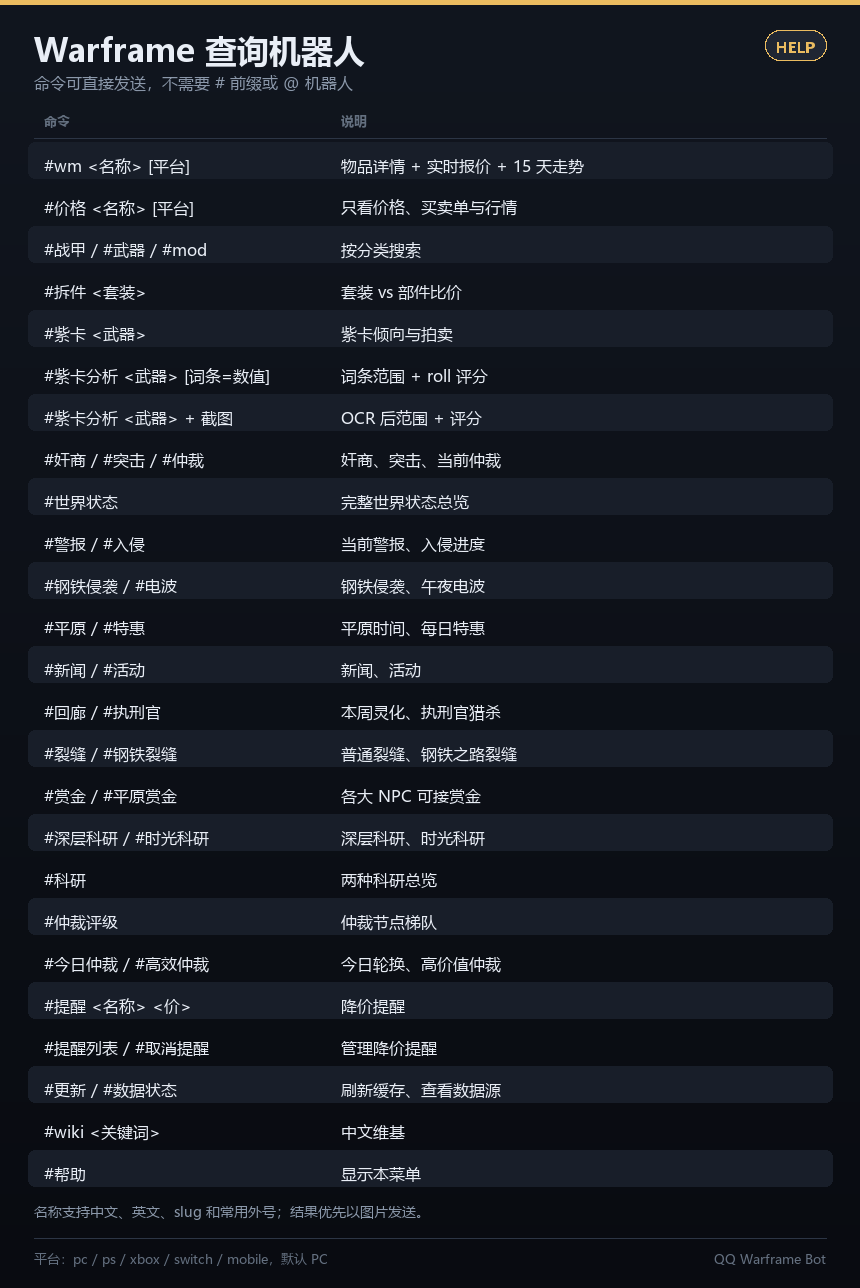
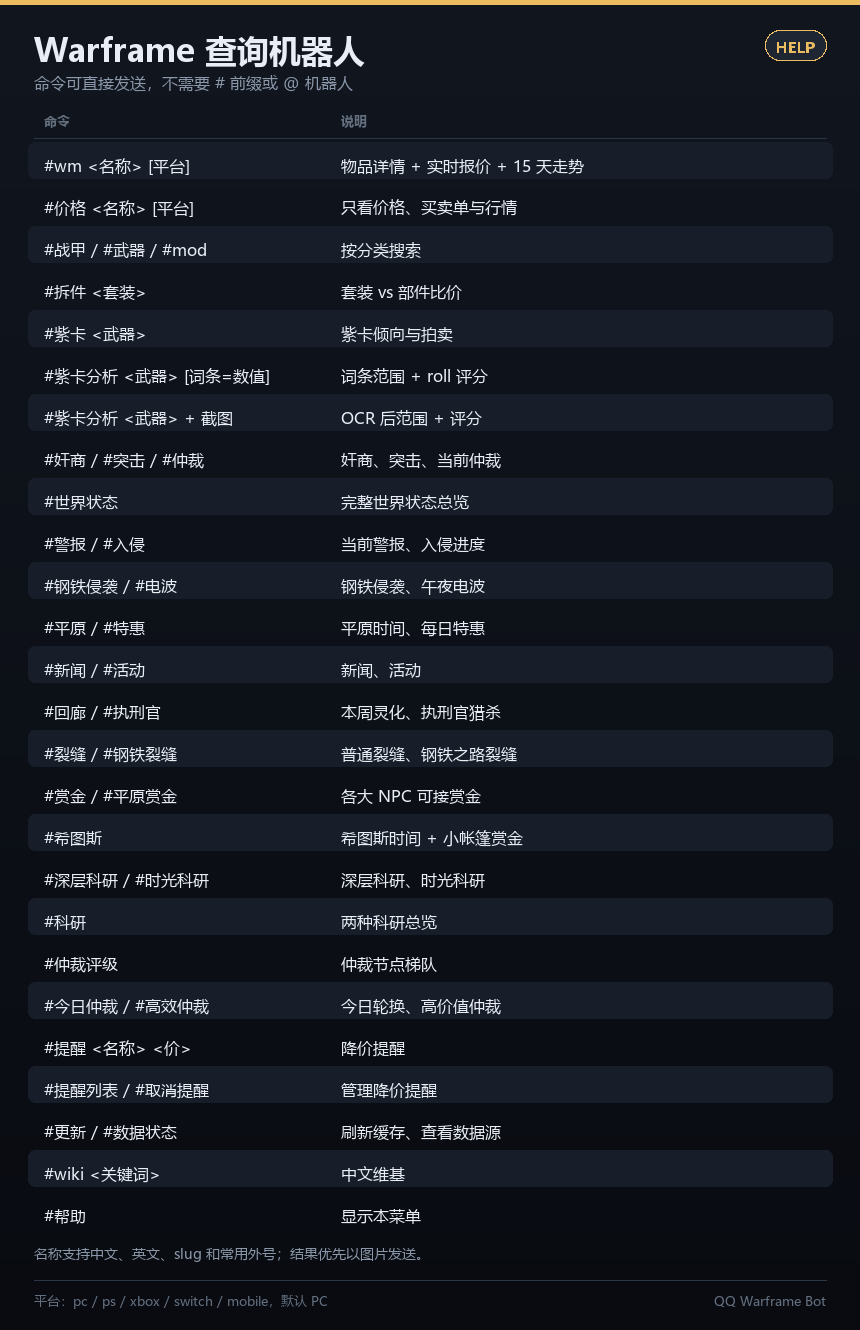
Add Cetus tent bounty view

Changed region(s): [[0.0302, 0.0311, 0.6953, 0.9938], [0.907, 0.0311, 0.9674, 0.0621], [0.8465, 0.9627, 0.907, 0.9938]]

diff --git a/bot/present.py b/bot/present.py
@@ -732,6 +732,73 @@ BOUNTY_ORDER = ["Ostrons", "Solaris United", "Entrati", "Cavia",
                 "The Hex", "The Holdfasts"]
 
 
+def _bounty_reward(job) -> str:
+    drops = _as_list(job.get("rewardPoolDrops"))
+    rewards = []
+    for drop in drops[:2]:
+        if isinstance(drop, dict) and drop.get("item"):
+            rewards.append(terms.localize_reward(str(drop["item"])))
+    if not rewards:
+        rewards = [terms.localize_reward(str(value))
+                   for value in _as_list(job.get("rewardPool"))[:2]]
+    return "、".join(rewards) or "—"
+
+
+def _bounty_level(job) -> str:
+    levels = _as_list(job.get("enemyLevels"))
+    if len(levels) >= 2:
+        return "%s–%s" % (levels[0], levels[1])
+    if levels:
+        return str(levels[0])
+    return "—"
+
+
+def cetus_reply(cycle, raw) -> Reply:
+    jobs = []
+    seen = set()
+    for syndicate in _as_list(raw):
+        if syndicate.get("syndicate") != "Ostrons":
+            continue
+        for job in _as_list(syndicate.get("jobs")):
+            title = terms.localize_bounty(
+                str(job.get("type") or job.get("jobType") or "赏金"))
+            key = (title, str(job.get("expiry") or ""))
+            if key in seen:
+                continue
+            seen.add(key)
+            jobs.append((job, title))
+    jobs.sort(key=lambda pair: (
+        (_as_list(pair[0].get("enemyLevels")) or [999])[0],
+        pair[1]))
+    if not jobs:
+        return Reply(text="希图斯当前没有可接赏金。")
+
+    rows = []
+    text_lines = []
+    for index, (job, title) in enumerate(jobs[:3], 1):
+        label = "小帐篷 %d" % index
+        rows.append([label, title, _bounty_level(job),
+                     _bounty_reward(job),
+                     countdown(parse_timestamp(job.get("expiry")))])
+        text_lines.append("%s / %s / %s" % (label, title, _bounty_level(job)))
+    for job, title in jobs[3:]:
+        rows.append(["其他赏金", title, _bounty_level(job),
+                     _bounty_reward(job),
+                     countdown(parse_timestamp(job.get("expiry")))])
+        text_lines.append("其他 / %s / %s" % (title, _bounty_level(job)))
+
+    state = _state_label((cycle or {}).get("state"))
+    time_left = terms.localize_duration(str((cycle or {}).get("timeLeft") or "—"))
+    return _world_reply(
+        "希图斯", "当前 %s · 剩余 %s ｜ 小帐篷 1–3 + 全部 Ostrons 赏金" % (
+            state, time_left),
+        ["类型", "任务", "等级", "奖励", "剩余"], rows,
+        "数据 warframestat.us · 希图斯", "希图斯",
+        text_lines=text_lines, ratios=[0.8, 1.8, 0.7, 1.7, 0.8],
+        accent=imagecard.GREEN,
+        note="小帐篷按当前 Ostrons 赏金中敌人等级最低的三条排序。")
+
+
 def bounties_reply(raw) -> Reply:
     rows = []
     seen = set()

diff --git a/tests/test_worldstate_present.py b/tests/test_worldstate_present.py
@@ -28,10 +28,30 @@ class WorldPresentTest(unittest.TestCase):
         self.assertIn("温暖", reply.text)
         self.assertIn("法斯", reply.text)
 
+    def test_cetus_tents(self):
+        raw = [{
+            "syndicate": "Ostrons",
+            "jobs": [
+                {"type": "High", "enemyLevels": [50, 60], "expiry": "2030-01-01T00:00:00Z"},
+                {"type": "Mid", "enemyLevels": [20, 40], "expiry": "2030-01-01T00:00:00Z"},
+                {"type": "Low", "enemyLevels": [5, 15], "expiry": "2030-01-01T00:00:00Z"},
+                {"type": "Second", "enemyLevels": [10, 30], "expiry": "2030-01-01T00:00:00Z"},
+            ],
+        }]
+        reply = present.cetus_reply(
+            {"state": "day", "timeLeft": "1h 20m 0s"}, raw)
+        self.assertIn("希图斯", reply.text)
+        self.assertIn("白天", reply.text)
+        lines = reply.text.splitlines()
+        tent_lines = [line for line in lines if line.startswith("小帐篷 ")]
+        self.assertEqual(len(tent_lines), 3)
+        self.assertIn("Low", tent_lines[0])
+        self.assertIn("Second", tent_lines[1])
+        self.assertIn("Mid", tent_lines[2])
+
     def test_summary(self):
         reply = present.worldstate_reply({
-            "alerts": [1, 2, 3],
-            "invasions": [1],
+            "alerts": [1, 2, 3],            "invasions": [1],
             "fissures": [1, 2],
             "news": [1],
             "events": [],

diff --git a/bot/commands.py b/bot/commands.py
@@ -53,6 +53,7 @@ COMMANDS: Dict[str, str] = {
     "执刑官": "archon", "执刑官猎杀": "archon",
     "裂缝": "fissures", "钢铁裂缝": "steel_fissures", "钢铁裂隙": "steel_fissures",
     "赏金": "bounties", "平原赏金": "bounties",
+    "希图斯": "cetus", "希图斯赏金": "cetus", "希图斯帐篷": "cetus",
     "今日仲裁": "today_arbitration", "高效仲裁": "effective_arbitration",
     "深层科研": "deep_research", "时光科研": "temporal_research",
     "科研": "research",
@@ -277,6 +278,11 @@ class CommandRouter:
                 return [present.fissures_reply(self._ws("fissures"), hard=True)]
             if command == "bounties":
                 return [present.bounties_reply(self._ws("syndicateMissions"))]
+            if command == "cetus":
+                state = self._ws("")
+                return [present.cetus_reply(
+                    state.get("cetusCycle"),
+                    state.get("syndicateMissions"))]
             if command == "today_arbitration":
                 return [self._today_arbitration(argument, ctx)]
             if command == "effective_arbitration":

diff --git a/bot/terms.py b/bot/terms.py
@@ -155,6 +155,8 @@ BOUNTY_PHRASES = {
     "Tax the Taxmen": "向税务官征税",
     "Crush Cult": "粉碎教团",
     "Crush the Cult": "粉碎教团",
+    "For Unum": "为了乌努姆",
+    "For the Unum": "为了乌努姆",
     "Brute Force": "暴力破解",
     "Strip Mining (Endless)": "露天开采（无尽）",
     "Isolation Vault Chamber": "隔离宝库",
@@ -172,6 +174,7 @@ BOUNTY_WORDS = {
     "Reclaim": "夺回", "Cleanse": "净化", "Land": "土地",
     "Rise and Fall": "兴衰", "Crush Cult": "粉碎教团",
     "Isolation Vault Chamber": "隔离宝库", "Tax Taxmen": "税务官",
+    "For Unum": "为了乌努姆", "For the Unum": "为了乌努姆",
     "Bounty": "赏金", "Defend": "防守", "Rescue": "救援",
     "Destroy": "摧毁", "Recover": "回收", "Hunt": "狩猎",
     "Assassinate": "刺杀", "Escort": "护送", "Investigate": "调查",

diff --git a/tests/test_commands.py b/tests/test_commands.py
@@ -354,6 +354,9 @@ class RivenAnalysisCommandTest(unittest.TestCase):
         self.assertEqual(router.parse("帮助", allow_bare=True), ("help", ""))
         self.assertEqual(router.parse("价格 绝路", allow_bare=True),
                          ("price", "绝路"))
+        self.assertEqual(router.parse("#希图斯"), ("cetus", ""))
+        self.assertEqual(router.parse("希图斯赏金", allow_bare=True),
+                         ("cetus", ""))
         self.assertEqual(router.parse("wm绝路", allow_bare=True),
                          ("query", "绝路"))
         self.assertIsNone(router.parse("绝路", allow_bare=True))

diff --git a/bot/imagecard.py b/bot/imagecard.py
@@ -876,6 +876,7 @@ def help_card(prefix: str = "#") -> bytes:
         ["%s回廊 / %s执刑官" % (prefix, prefix), "本周灵化、执刑官猎杀"],
         ["%s裂缝 / %s钢铁裂缝" % (prefix, prefix), "普通裂缝、钢铁之路裂缝"],
         ["%s赏金 / %s平原赏金" % (prefix, prefix), "各大 NPC 可接赏金"],
+        ["%s希图斯" % prefix, "希图斯时间 + 小帐篷赏金"],
         ["%s深层科研 / %s时光科研" % (prefix, prefix), "深层科研、时光科研"],
         ["%s科研" % prefix, "两种科研总览"],
         ["%s仲裁评级" % prefix, "仲裁节点梯队"],

diff --git a/bot/render.py b/bot/render.py
@@ -227,6 +227,7 @@ def render_help(prefix: str = "#") -> str:
         "%s特惠 / %s新闻 / %s活动" % (prefix, prefix, prefix),
         "%s回廊 / %s执刑官 / %s赏金" % (prefix, prefix, prefix),
         "%s钢铁裂缝 / %s平原赏金" % (prefix, prefix),
+        "%s希图斯               希图斯时间 + 小帐篷赏金" % prefix,
         "%s深层科研 / %s时光科研 / %s科研" % (prefix, prefix, prefix),
         "%s仲裁评级           仲裁节点梯队" % prefix,
         "%s今日仲裁 / %s高效仲裁  今日轮换、高价值仲裁" % (prefix, prefix),

diff --git a/README.md b/README.md
@@ -1,4 +1,4 @@
-# QQ Warframe 查询机器人 v2
+# QQ Warframe 查询机器人 v2
 
 一个跑在自己电脑上的 QQ 机器人：查武器、战甲、MOD、赋能、遗物、套装等**所有可交易物品**的实时报价与行情，支持**套装拆件比价、紫卡、紫卡分析、Baro 奸商、突击、仲裁、中文维基、降价提醒**，所有缓存数据后台自动更新。
 
@@ -83,6 +83,7 @@
 | `#回廊` / `#执刑官` | 本周灵化、执刑官猎杀 |
 | `#裂缝` / `#钢铁裂缝` | 普通裂缝 / 钢铁之路裂缝 |
 | `#赏金` / `#平原赏金` | 各大 NPC 可接赏金 |
+| `#希图斯` | 希图斯昼夜 + 小帐篷 1–3 + 全部 Ostrons 赏金 |
 | `#深层科研` / `#时光科研` / `#科研` | 深层科研、时光科研、两者总览 |
 | `#仲裁评级` | 仲裁节点梯队表（S/A+/A/A-/C） |
 | `#提醒 <名称> <目标价> [平台]` | 添加降价提醒 |
@@ -662,11 +663,11 @@ OCR 依赖：
 python -m unittest discover -s tests -t . -v
 ```
 
-**274 个离线测试**，不联网、不连 QQ，覆盖：
+**275 个离线测试**，不联网、不连 QQ，覆盖：
 
 - WebSocket 握手/掩码/分片/ping-pong
 - 中文/英文/外号搜索排序、平台参数、拆件与紫卡逻辑
-- 世界状态解析、钢铁裂缝、赏金、深层/时光科研、紫卡范围/roll 评分/OCR
+- 世界状态解析、钢铁裂缝、赏金、希图斯小帐篷、深层/时光科研、紫卡范围/roll 评分/OCR
 - 仲裁评级 JSON 解析、节点查找、轮换兜底
 - 市场响应解析、48h 统计聚合、缓存、429 重试
 - 维基摘要与 HTML 回退、世界状态时间解析
@@ -731,7 +732,7 @@ qqwarframe-bot/
 │   ├── web.py             # 零依赖 Web 控制台
 │   └── app.py             # 过滤、限流、发送、提醒循环
 ├── web/                   # 控制台 HTML / CSS / JS
-├── tests/                 # 274 个测试 + fixtures
+├── tests/                 # 275 个测试 + fixtures
 └── logs/                  # 运行后生成
 ```
 
@@ -834,6 +835,7 @@ huijiwiki 和 B 站 WIKI 都会拦截部分网络/机房 IP。处理顺序：
 ## License
 
 仅供学习交流使用。你可以自由修改、自用；转载请注明数据来源。
+
 
 
 

diff --git a/LINUX.md b/LINUX.md
@@ -193,10 +193,11 @@ docker run -d --name napcat --restart unless-stopped \
 
 ```bash
 ./check.sh                              # 联网自检
-python3 -m unittest discover -s tests -t .   # 274 个离线测试
+python3 -m unittest discover -s tests -t .   # 275 个离线测试
 ```
 
 自检里维基可能显示 `WARN`（Cloudflare/WAF 拦截），不影响市场、图片、提醒等功能。
+
 
 
 
